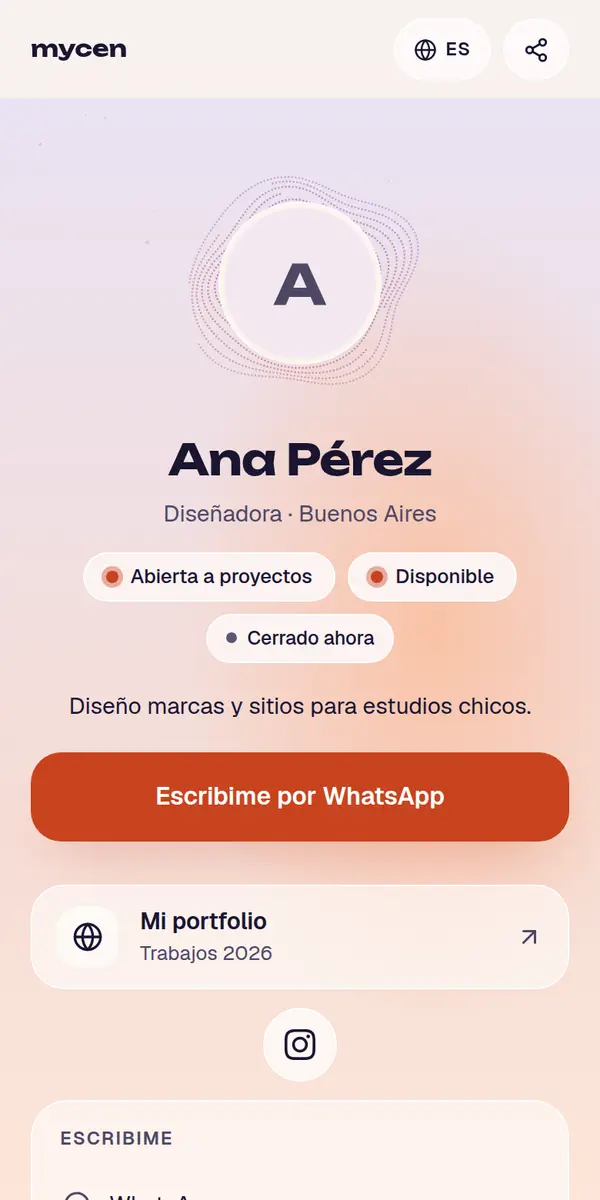
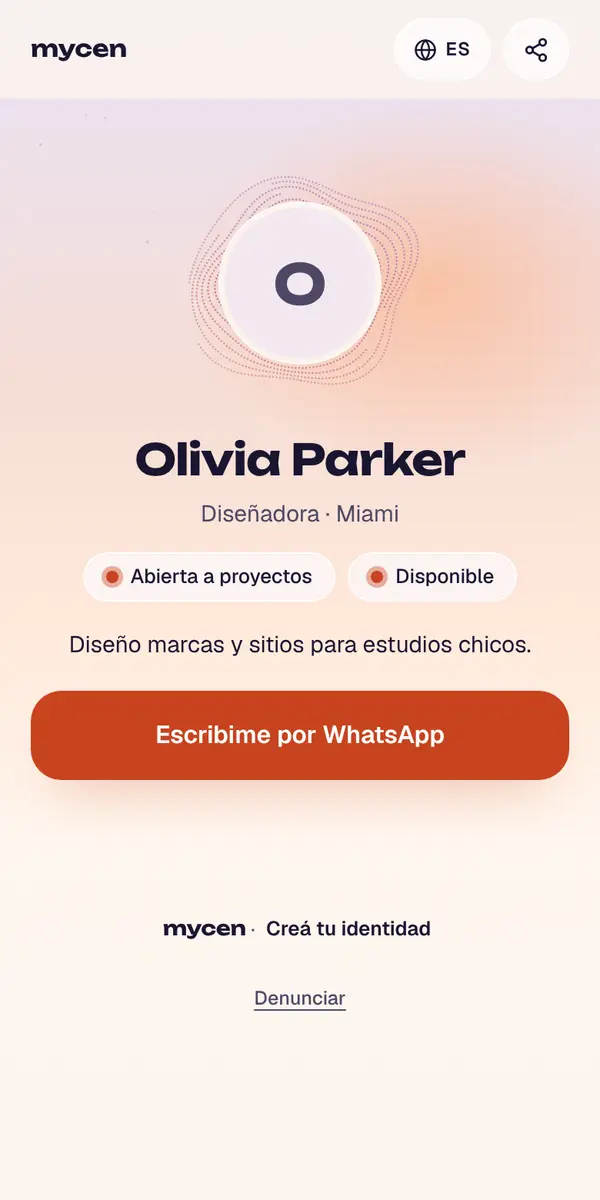
Landing: imágenes de ejemplo con Olivia Parker y botón de Identity con contraste AA
- Estructuras (5 × 2 temas) y Mi día regenerados con scripts/landing-shots.
- "Creá tu Mycen gratis": texto oscuro sobre salmón (blanco no llegaba a AA; lo marcaba axe).

Claude-Session: https://claude.ai/code/session_01DviLyj5iiefqz38ZCV6Pon

diff --git a/src/components/landing/identity.css b/src/components/landing/identity.css
@@ -214,7 +214,8 @@
   min-height: 52px; padding: 14px 32px;
   border-radius: 999px;
   font: 700 16px/1 var(--font-jakarta);
-  color: #fff; background: var(--ml-salmon);
+  /* Texto oscuro: blanco sobre salmón no llega al contraste AA */
+  color: #0F1115; background: var(--ml-salmon);
   text-decoration: none;
   box-shadow: 0 14px 40px -12px rgba(244, 112, 90, 0.7);
 }
